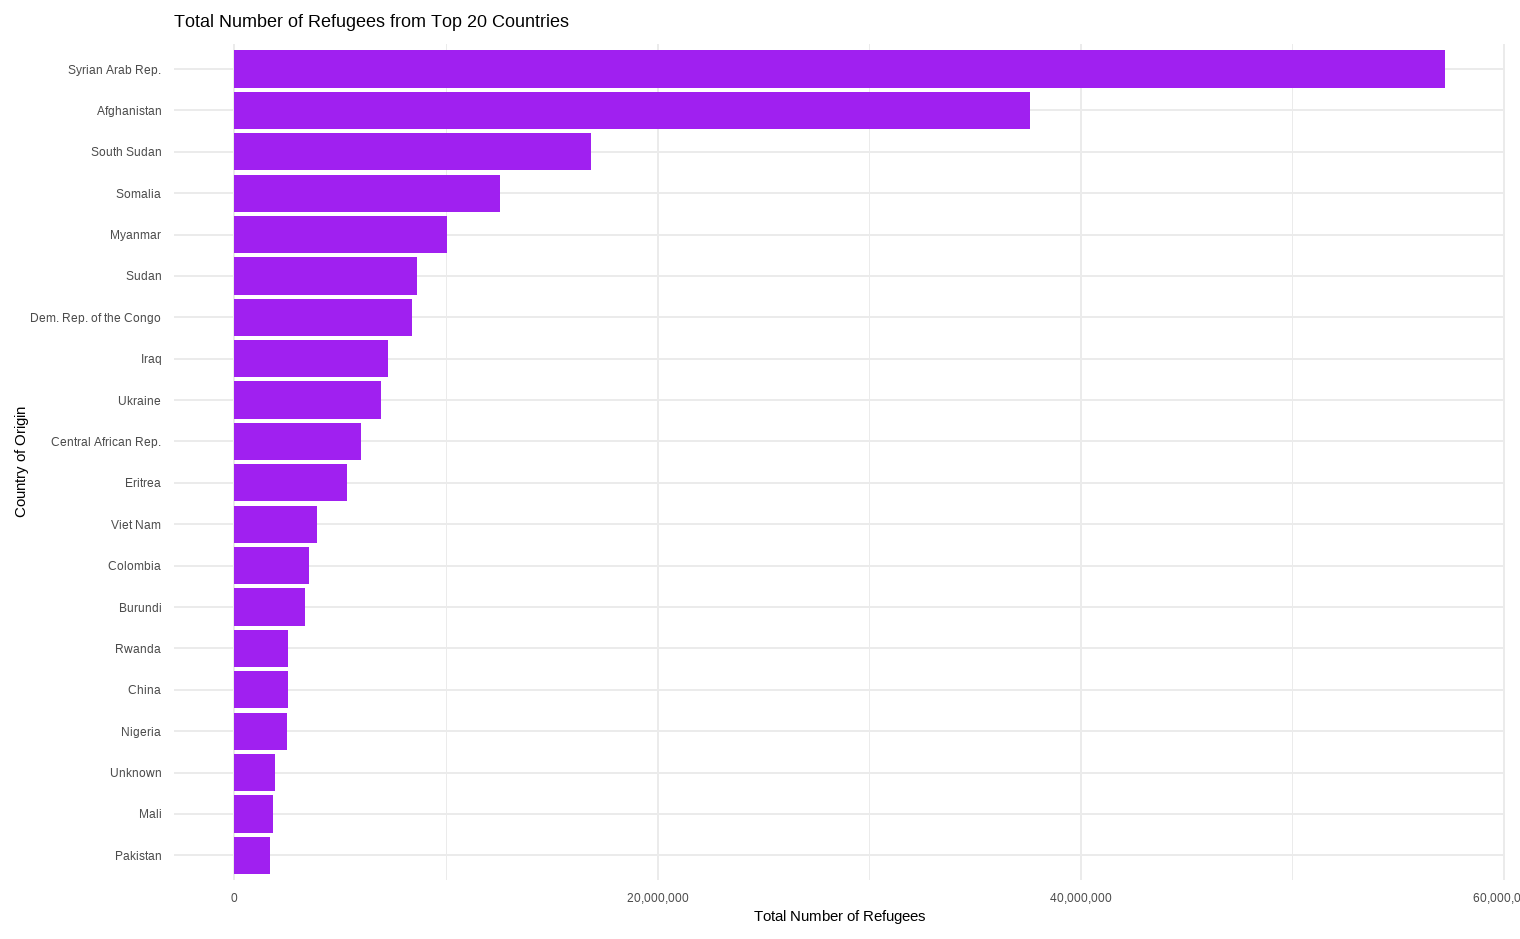
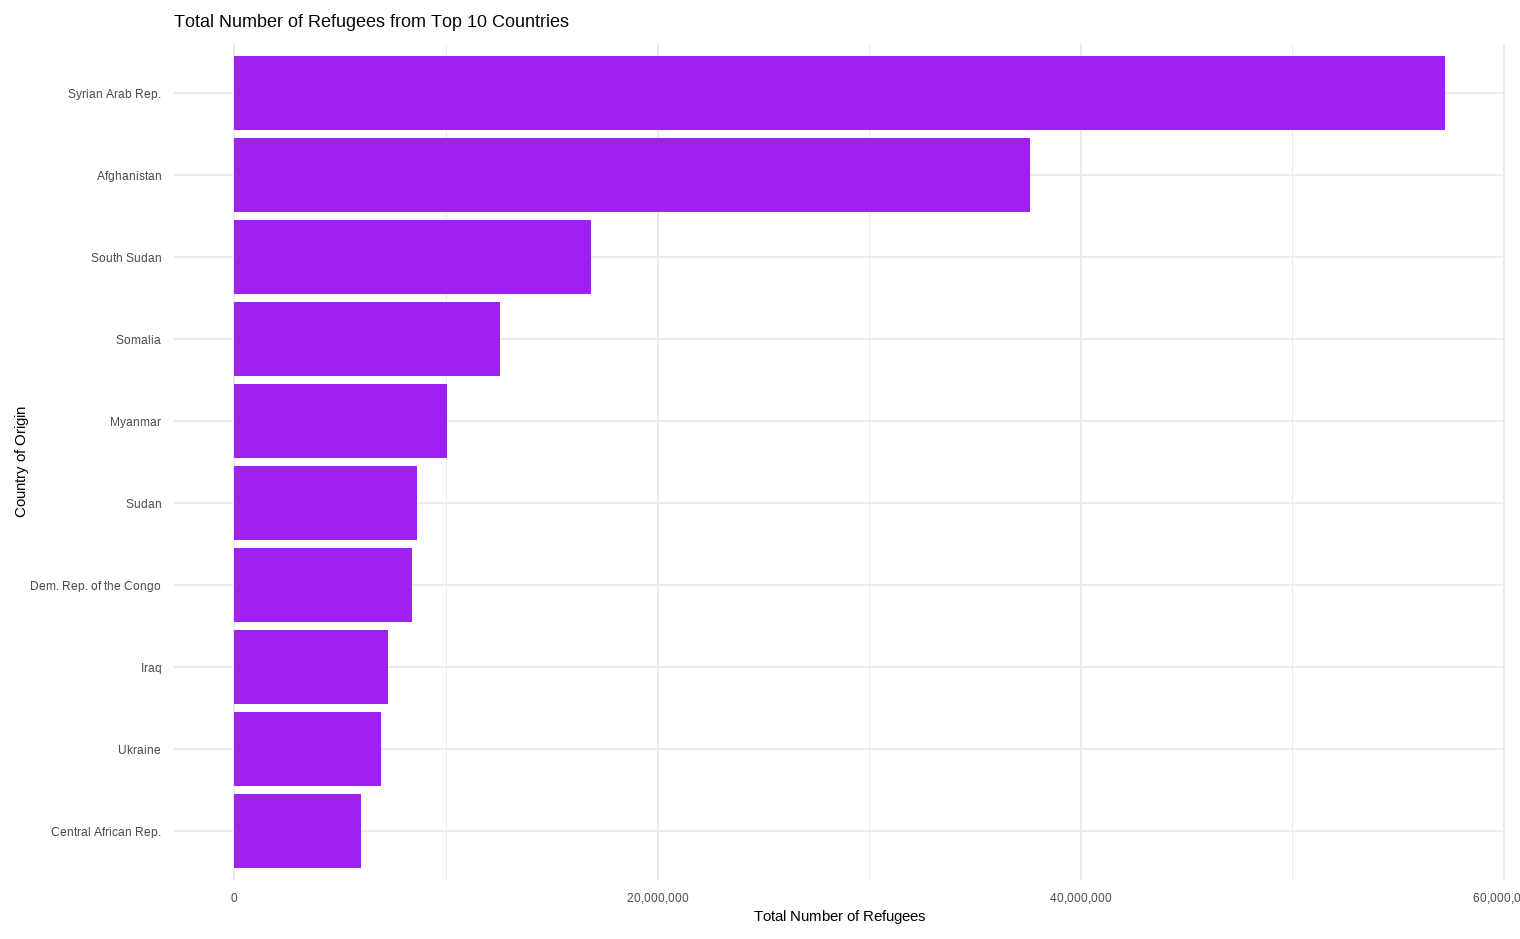
Built site for gh-pages

diff --git a/presentation.html b/presentation.html
@@ -460,7 +460,7 @@ Datatude Dynamos- Kaarthik Sai, Kamaljeet Singh, Surya Vardhan Dama, Ayesha Khat
 <section id="analysis-refugees-by-year-and-country-of-origin" class="slide level2 smaller" data-auto-animate="true">
 <h2 data-id="quarto-animate-title">Analysis: Refugees by year and country of origin</h2>
 <ul>
-<li>Top 20 countries with the highest total number of refugees</li>
+<li>Top 10 countries with the highest total number of refugees</li>
 <li>The maximum number of refugee came has come from <strong>Syrian</strong>, <strong>Afghanistan</strong> and <strong>South Sudan</strong></li>
 </ul>
 </section>
@@ -471,7 +471,7 @@ Datatude Dynamos- Kaarthik Sai, Kamaljeet Singh, Surya Vardhan Dama, Ayesha Khat
 <section id="analysis-refugees-by-year-and-country-of-origin-1" class="slide level2 smaller" data-auto-animate="true">
 <h2 data-id="quarto-animate-title">Analysis: Refugees by year and country of origin</h2>
 <ul>
-<li>Top 20 countries with the highest total number of asylum seekers</li>
+<li>Top 10 countries with the highest total number of asylum seekers</li>
 </ul>
 </section>
 <section id="plot-04" class="slide level2">
@@ -486,12 +486,8 @@ Datatude Dynamos- Kaarthik Sai, Kamaljeet Singh, Surya Vardhan Dama, Ayesha Khat
 </section>
 <section id="plot-05" class="slide level2">
 <h2>Plot 05</h2>
-<pre><code>::: {.cell layout-align="center"}
-::: {.cell-output-display}
-![](images/anim_plot1.gif){fig-align='center'}
-:::
-:::</code></pre>
-</section></section>
+
+<img data-src="images/anim_plot1.gif" class="quarto-figure quarto-figure-center r-stretch"></section></section>
 <section>
 <section id="question-02" class="title-slide slide level1 center">
 <h1>Question 02</h1>
